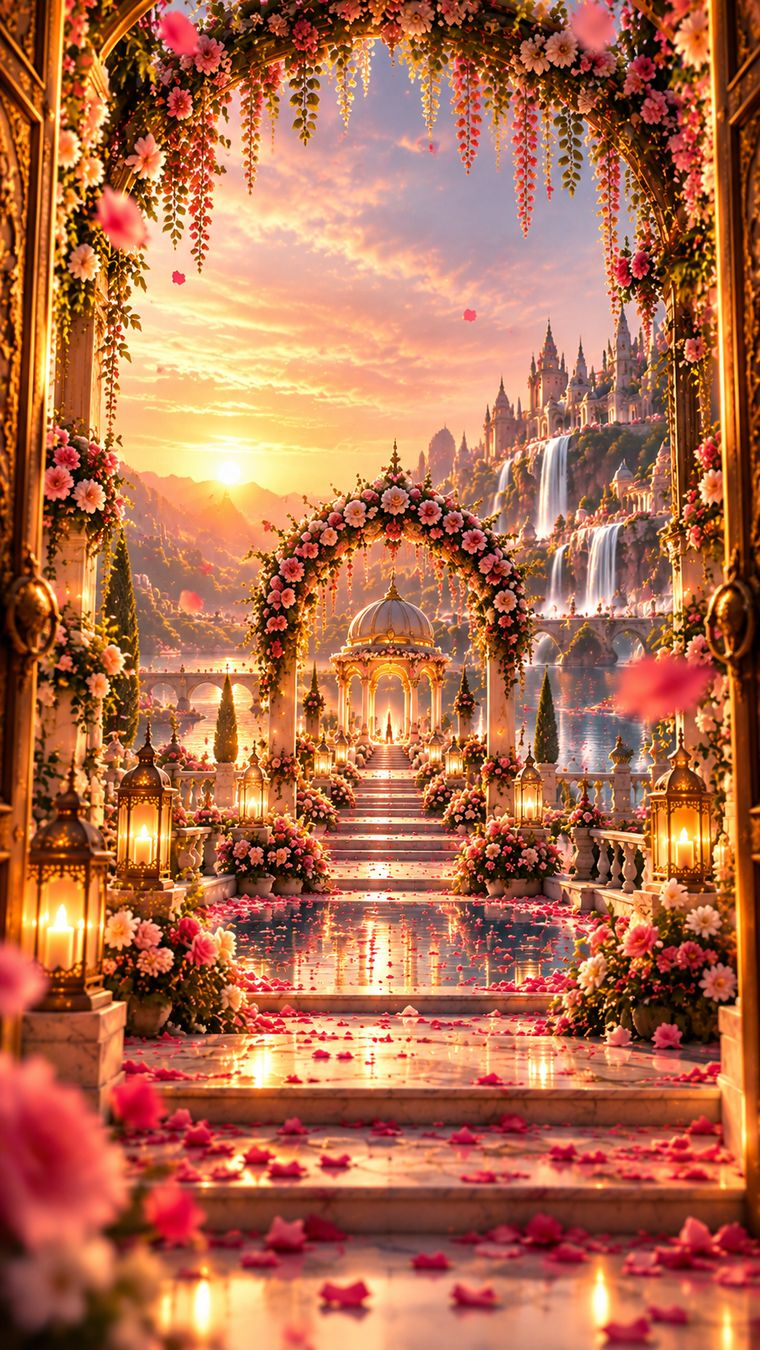
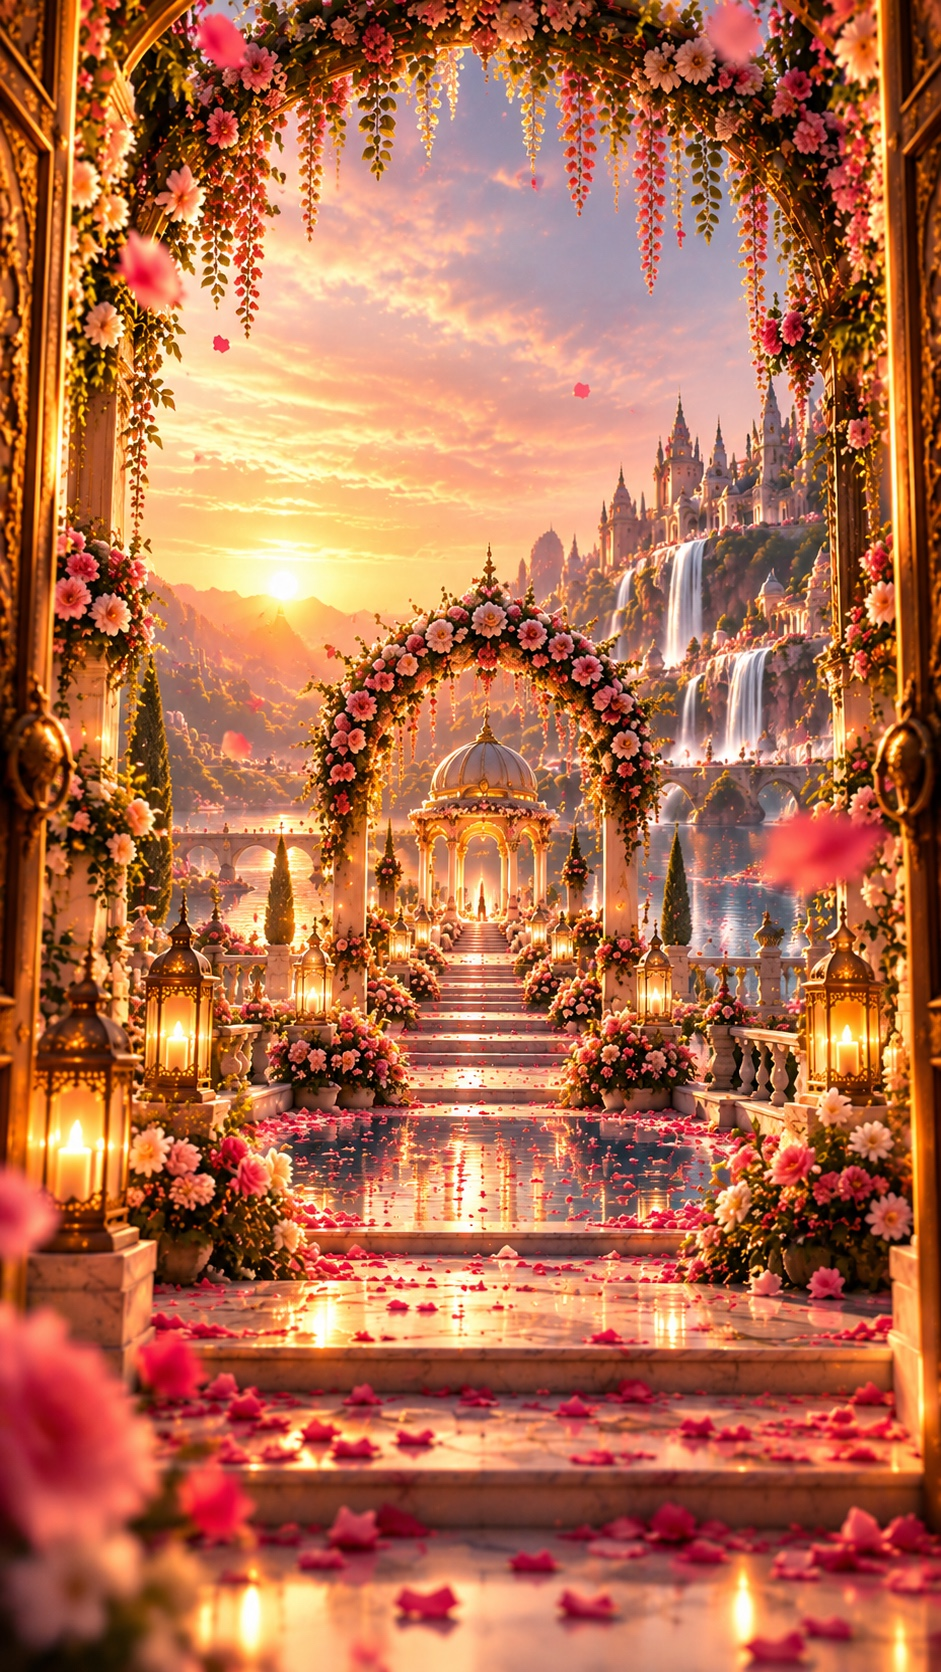
Use sharper Heavenly garden photos so the walk-through and hero stay clear on phone and desktop.

Changed region(s): [[0.2118, 0.1244, 0.2724, 0.1556], [0.9987, 0.3422, 1.0, 0.3733], [0.1513, 0.1867, 0.1816, 0.2178]]

diff --git a/src/components/HeavenlyInvite.tsx b/src/components/HeavenlyInvite.tsx
@@ -16,6 +16,7 @@ const ART = {
   doors: "/heavenly/doors.jpg",
   glow: "/heavenly/doors-glow.jpg",
   world: "/heavenly/world.jpg",
+  worldWide: "/heavenly/world-wide.jpg",
   gate: "/heavenly/gate.jpg",
   portal: "/heavenly/portal.jpg",
 };
@@ -36,7 +37,7 @@ const EVENT_ICONS = [
 const SAMPLE_REPLIES: Row[] = [
   { key: "s1", name: "Meera & Karthik", attending: true, guests: 2, msg: "We have been waiting for this day forever! See you in Munnar.", when: "2 days ago" },
   { key: "s2", name: "Sanjana Iyer", attending: true, guests: 1, msg: "The doors gave me goosebumps. Cannot wait to dance at the reception!", when: "3 days ago" },
-  { key: "s3", name: "The Menon family", attending: true, guests: 4, msg: "Wishing you a lifetime of love and laughter.", when: "4 days ago" },
+  { key: "s3", name: "The Kumars family", attending: true, guests: 4, msg: "Wishing you a lifetime of love and laughter.", when: "4 days ago" },
   { key: "s4", name: "Rahul Varma", attending: false, guests: 0, msg: "So sorry to miss it — sending all my love from Toronto.", when: "5 days ago" },
 ];
 const OPENING_MS = 3200;
@@ -177,23 +178,27 @@ function geometry(W: number, H: number) {
   const cx = C;
   const cy = (T + B) / 2;
   const origin = `${cx.toFixed(1)}px ${cy.toFixed(1)}px`;
-  // The world picture is framed by another doorway. The phone design (390×844)
-  // finishes at scale 1.72, which leaves that frame outside the screen so the
-  // card sits in the garden. Match that crop at every window size, or a wide
-  // screen stops at the second doorway.
-  const worldCover = Math.max(W / 760, H / 1350);
-  const phoneCover = Math.max(390 / 760, 844 / 1350);
+  // Portrait frames use the tall picture. Landscape frames use the wide one,
+  // which already fills the screen, so the walk only eases in a little.
+  // The phone crop finishes at scale 1.72 so the doorway falls outside the
+  // screen and the card sits in the garden.
+  const wideWorld = W / Math.max(H, 1) >= 1;
+  const worldArt = wideWorld
+    ? { src: ART.worldWide, IW: 1672, IH: 941 }
+    : { src: ART.world, IW: 941, IH: 1672 };
+  const worldCover = Math.max(W / worldArt.IW, H / worldArt.IH);
+  const phoneCover = Math.max(390 / 941, 844 / 1672);
   const arrivedWidth = 390 / phoneCover / 1.72;
-  const WT = W / worldCover / arrivedWidth;
-  const WS = WT / (1.72 / 1.32);
+  const WT = wideWorld ? 1.41 : W / worldCover / arrivedWidth;
+  const WS = wideWorld ? 1.08 : WT / (1.72 / 1.32);
   const leafBg = (x0: number): CSSProperties => ({
     backgroundImage: `url(${G.glow})`,
     backgroundSize: `${dW.toFixed(1)}px ${dH.toFixed(1)}px`,
     backgroundPosition: `${(oX - x0).toFixed(1)}px ${(oY - T).toFixed(1)}px`,
   });
-  const wsc = Math.max(W / 760, H / 1350);
-  const wdW = 760 * wsc;
-  const wdH = 1350 * wsc;
+  const wsc = Math.max(W / worldArt.IW, H / worldArt.IH);
+  const wdW = worldArt.IW * wsc;
+  const wdH = worldArt.IH * wsc;
   const woX = (W - wdW) / 2;
   const woY = (H - wdH) / 2;
   const flash = `radial-gradient(circle at ${origin}, #FFFBEF 0%, #FFE6B0 45%, #F5C77A 100%)`;
@@ -206,7 +211,9 @@ function geometry(W: number, H: number) {
     flash,
     cam: { transformOrigin: origin, ["--ce" as string]: String(G.CE) } as CSSProperties,
     doorWorld: { clipPath: poly(full, 0, 0) } as CSSProperties,
-    doorWorldImg: { backgroundImage: `url(${ART.world})`, transformOrigin: origin, ["--we" as string]: (WS / G.CE).toFixed(3) } as CSSProperties,
+    wideWorld,
+    worldSrc: worldArt.src,
+    doorWorldImg: { backgroundImage: `url(${worldArt.src})`, transformOrigin: origin, ["--we" as string]: (WS / G.CE).toFixed(3) } as CSSProperties,
     doorLight: {
       clipPath: poly(full, 0, 0),
       background: `radial-gradient(ellipse at ${origin}, #FFFFFF 0%, #FFF3D0 30%, rgba(255,214,140,0.85) 65%, rgba(255,190,110,0.6) 100%)`,
@@ -218,7 +225,10 @@ function geometry(W: number, H: number) {
     floor: { left: Math.round(cx - W * 0.6), top: Math.round(B - 40), width: Math.round(W * 1.2), height: Math.round(H - B + 80) } as CSSProperties,
     glowLine: { left: C - 4, top: T, height: B - T } as CSSProperties,
     doorLanterns: G.lan.map(([x, y]) => lantern((fx(x) / W) * 100, (fy(y) / H) * 100, D ? 70 : 80)),
-    worldLanterns: [[0.08, 0.68], [0.18, 0.62], [0.35, 0.57], [0.68, 0.57], [0.87, 0.63], [0.08, 0.88]].map(([x, y]) =>
+    worldLanterns: (wideWorld
+      ? [[0.1, 0.62], [0.2, 0.55], [0.32, 0.64], [0.7, 0.64], [0.82, 0.55], [0.91, 0.7]]
+      : [[0.08, 0.68], [0.18, 0.62], [0.35, 0.57], [0.68, 0.57], [0.87, 0.63], [0.08, 0.88]]
+    ).map(([x, y]) =>
       lantern(((woX + x * wdW) / W) * 100, ((woY + y * wdH) / H) * 100, D ? 110 : 60),
     ),
     glints: Array.from({ length: 8 }, (_, i) => ({
@@ -361,14 +371,21 @@ export function HeavenlyInvite({
   const yes = attend === "yes";
 
   useLayoutEffect(() => {
-    const element = openRef.current;
-    if (!element) return;
+    const root = rootRef.current;
+    if (!root) return;
     const measure = () => {
-      if (element.offsetWidth && element.offsetHeight) setSize({ W: element.offsetWidth, H: element.offsetHeight });
+      const open = openRef.current;
+      const node = open ?? root;
+      const W = node.offsetWidth;
+      if (!W) return;
+      // After the doors, the hero is a fixed band, so its shape picks the picture.
+      const H = open ? open.offsetHeight : W >= DESK_MIN ? 900 : 760;
+      if (H) setSize({ W, H });
     };
     measure();
     const observer = new ResizeObserver(measure);
-    observer.observe(element);
+    observer.observe(root);
+    if (openRef.current) observer.observe(openRef.current);
     return () => observer.disconnect();
   }, [stage]);
 
@@ -514,7 +531,7 @@ export function HeavenlyInvite({
           {phase === "world" || phase === "invite" ? (
             <>
               <div className="hv-world" style={g.world}>
-                <div className="hv-cover" style={{ backgroundImage: `url(${ART.world})` }} />
+                <div className="hv-cover" style={{ backgroundImage: `url(${g.worldSrc})` }} />
                 <div className="hv-world-pin" aria-hidden="true">
                   <div className="hv-world-rays" />
                 </div>
@@ -676,7 +693,7 @@ export function HeavenlyInvite({
 
           <section className="hv-hero">
             <div className="hv-layer">
-              <div className="hv-hero-img" style={{ backgroundImage: `url(${ART.world})` }} />
+              <div className={g.wideWorld ? "hv-hero-img is-wide" : "hv-hero-img"} style={{ backgroundImage: `url(${g.worldSrc})` }} />
             </div>
             <div className="hv-hero-shade" />
             <span className="hv-only-phone">

diff --git a/src/components/heavenly.css b/src/components/heavenly.css
@@ -319,6 +319,7 @@
 
 .hv-hero { position: relative; height: 760px; flex-shrink: 0; overflow: hidden; }
 .hv-hero-img { position: absolute; inset: 0; background-size: cover; background-position: center 40%; animation: hv-p-kb 18s ease-in-out infinite alternate; }
+.hv-hero-img.is-wide { background-position: center center; }
 .hv-hero-shade { position: absolute; inset: 0; background: linear-gradient(180deg, rgba(30, 18, 10, 0.25) 0%, rgba(30, 18, 10, 0.15) 40%, rgba(30, 18, 10, 0.85) 100%); }
 .hv-p-petal { position: absolute; z-index: 2; top: 0; pointer-events: none; animation-name: hv-p-petal; animation-timing-function: linear; animation-iteration-count: infinite; }
 .hv-p-petal > span { display: block; animation-name: hv-p-sway; animation-timing-function: ease-in-out; animation-iteration-count: infinite; }
